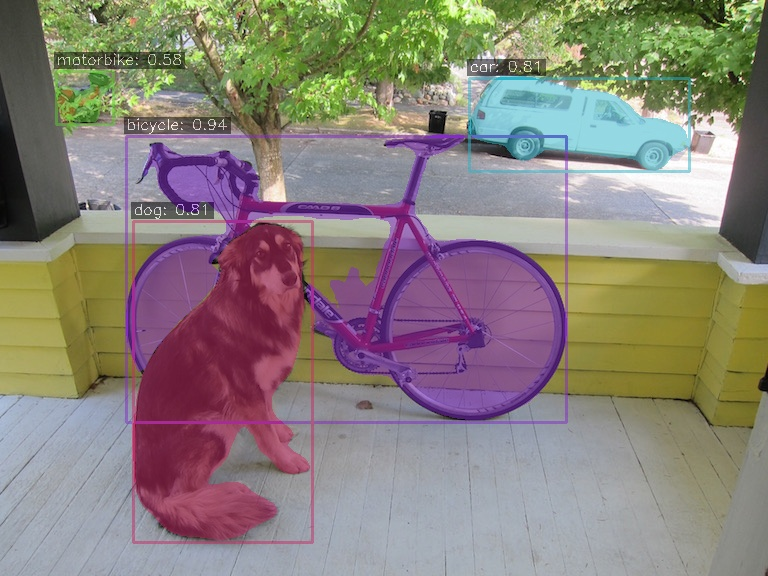
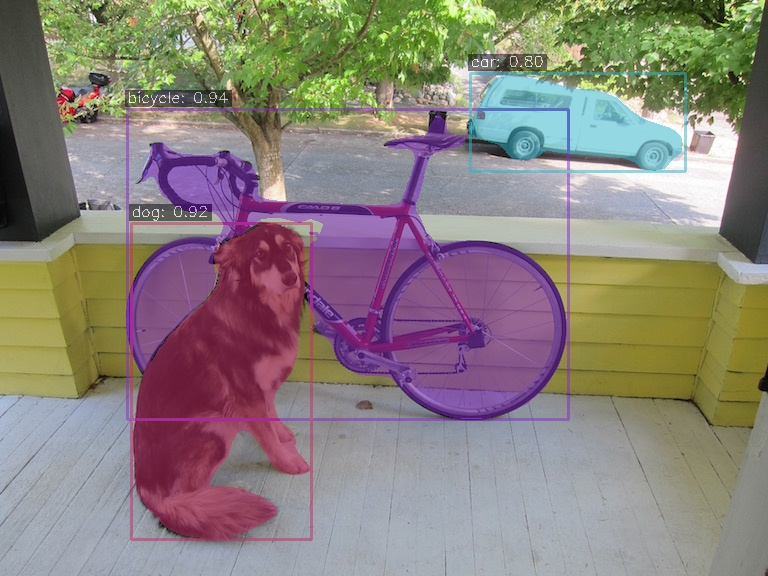
Update CMakeLists.txt and README.md for OpenCV components; add Upgrade tracking document; enhance export_detection.py with new model types

diff --git a/deploy/export_detection.py b/deploy/export_detection.py
@@ -16,22 +16,19 @@ def main():
                         help='Batch size for export (default: 1)')
     parser.add_argument('--input_size', default=640, type=int,
                         help='Input image size (default: 640)')
-    parser.add_argument('--model_type', default='base', type=str,
-                        choices=['base', 'nano', 'small', 'medium', 'large'],
-                        help='Model type (default: base)')
+    parser.add_argument('--model_type', default='medium', type=str,
+                        choices=['nano', 'small', 'medium', 'large', 'xlarge', '2xlarge'],
+                        help='Model type (default: medium)')
     args = parser.parse_args()
-    
+
     print("="*60)
     print("RF-DETR Detection Model Export")
     print("="*60)
 
     # Initialize the detection model
-    print("\n[1/2] Loading RF-DETR Detection model...")
+    print(f"\n[1/2] Loading RF-DETR Detection model ({args.model_type})...")
     model = None
-    if args.model_type == 'base':
-        from rfdetr import RFDETRBase
-        model = RFDETRBase()
-    elif args.model_type == 'nano':
+    if args.model_type == 'nano':
         from rfdetr import RFDETRNano
         model = RFDETRNano()
     elif args.model_type == 'small':
@@ -43,6 +40,12 @@ def main():
     elif args.model_type == 'large':
         from rfdetr import RFDETRLarge
         model = RFDETRLarge()
+    elif args.model_type == 'xlarge':
+        from rfdetr import RFDETRXLarge
+        model = RFDETRXLarge()
+    elif args.model_type == '2xlarge':
+        from rfdetr import RFDETR2XLarge
+        model = RFDETR2XLarge()
     else:
         raise ValueError(f"Unsupported model type: {args.model_type}")
         

diff --git a/src/backends/onnx_runtime_backend.cpp b/src/backends/onnx_runtime_backend.cpp
@@ -98,7 +98,7 @@ std::vector<void*> OnnxRuntimeBackend::run_inference(
 }
 
 size_t OnnxRuntimeBackend::get_output_count() const {
-    return ort_output_tensors_.size();
+    return output_name_strings_.size();
 }
 
 void OnnxRuntimeBackend::get_output_data(

diff --git a/README.md b/README.md
@@ -23,9 +23,9 @@ C++ project for performing object detection and instance segmentation inference 
 ## Dependencies
 
 ### Required (All Backends)
-- **C++20 Compiler**: Clang++ 15 or compatible (e.g., `clang++-15`)
+- **C++20 Compiler**: Clang 15+ or GCC 12+ (e.g., `clang++-15` or `g++-12`)
 - **CMake**: Version 3.12 or higher
-- **OpenCV**: Version 4.x (e.g., install via `sudo apt-get install libopencv-dev` on Ubuntu)
+- **OpenCV**: Version 4.x (modules: core, imgproc, imgcodecs)
 - **Google Test**: Version 1.12.1 (automatically fetched during build)
 - **Ninja**: Optional but recommended (`sudo apt-get install ninja-build`)
 
@@ -55,7 +55,7 @@ This project supports both RF-DETR detection and segmentation models from Robofl
 
 2. **Download the ONNX Model**:
    - Follow instructions in the [export documentation](docs/export.md) to export models in ONNX format.
-   - **Tested with**: `rfdetr[onnxexport]==1.3.0` (Python ≤ 3.11 required)
+   - **Tested with**: `rfdetr[onnxexport]==1.4.2` (Python ≤ 3.11 required)
    - **Detection models**: Export with standard configuration (outputs: `dets`, `labels`)
    - **Segmentation models**: Export with segmentation configuration (outputs: `dets`, `labels`, `masks`)
    - Place the model (e.g., `inference_model.onnx`) in a chosen directory.
@@ -79,10 +79,18 @@ This project supports both RF-DETR detection and segmentation models from Robofl
 
 ```bash
 sudo apt-get update
-sudo apt-get install -y clang-15 libopencv-dev ninja-build cmake
-```
+sudo apt-get install -y cmake
 
-Ensure `clang++-15` is available as your compiler.
+# Compiler - either clang or gcc (any C++20-capable version):
+sudo apt-get install -y clang-15
+# or use the system default gcc (no install needed if already present)
+
+# OpenCV (the full -dev package is needed for CMake integration):
+sudo apt-get install -y libopencv-dev
+
+# Optional (faster incremental builds):
+sudo apt-get install -y ninja-build
+```
 
 ---
 
@@ -106,6 +114,24 @@ cmake -S . -B build -G Ninja \
   -DCMAKE_BUILD_TYPE=Release \
   -DCMAKE_C_COMPILER=/usr/bin/clang-15 \
   -DCMAKE_CXX_COMPILER=/usr/bin/clang++-15
+
+cmake --build build --parallel
+```
+
+Using the system default compiler (typically gcc):
+
+```bash
+cmake -S . -B build -G Ninja \
+  -DCMAKE_BUILD_TYPE=Release
+
+cmake --build build --parallel
+```
+
+If you don't have Ninja installed, drop `-G Ninja` to use Make instead:
+
+```bash
+cmake -S . -B build \
+  -DCMAKE_BUILD_TYPE=Release
 
 cmake --build build --parallel
 ```

diff --git a/Upgrades.md b/Upgrades.md
@@ -1,0 +1,26 @@
+# RF-DETR Upgrade Tracking
+
+## 1.3.0 -> 1.4.2
+
+**Upstream release**: https://github.com/roboflow/rf-detr/releases/tag/1.4.2
+
+### What changed in this repo
+
+| File | What changed |
+|------|-------------|
+| `deploy/requirements.txt` | `rfdetr[onnxexport]` 1.3.0 -> 1.4.2 |
+| `deploy/export_detection.py` | Removed deprecated `RFDETRBase`, default `medium`, added `xlarge`/`2xlarge` |
+| `deploy/export_segmentation.py` | Replaced `RFDETRSegPreview` with sized classes + added `--model_type` arg |
+| `docs/export.md` | Version bump + updated Python API examples to new class names |
+| `README.md` | Version bump |
+
+### Why
+
+1. **Seg ONNX export was broken** - upstream fixed it in #626. `RFDETRSegPreview` is gone, replaced by `RFDETRSegNano/Small/Medium/Large/XLarge/2XLarge`.
+2. **`RFDETRBase` deprecated** - upstream no longer lists it. Use `RFDETRNano/Small/Medium/Large` instead. The detection export script still accepts `base` for backward compat.
+3. **XL/2XL models added** - require `pip install rfdetr[plus]` (PML 1.0 license, not Apache).
+
+### What did NOT change
+
+- No C++ code changes needed. Model ONNX outputs are the same format.
+- No build system changes.
